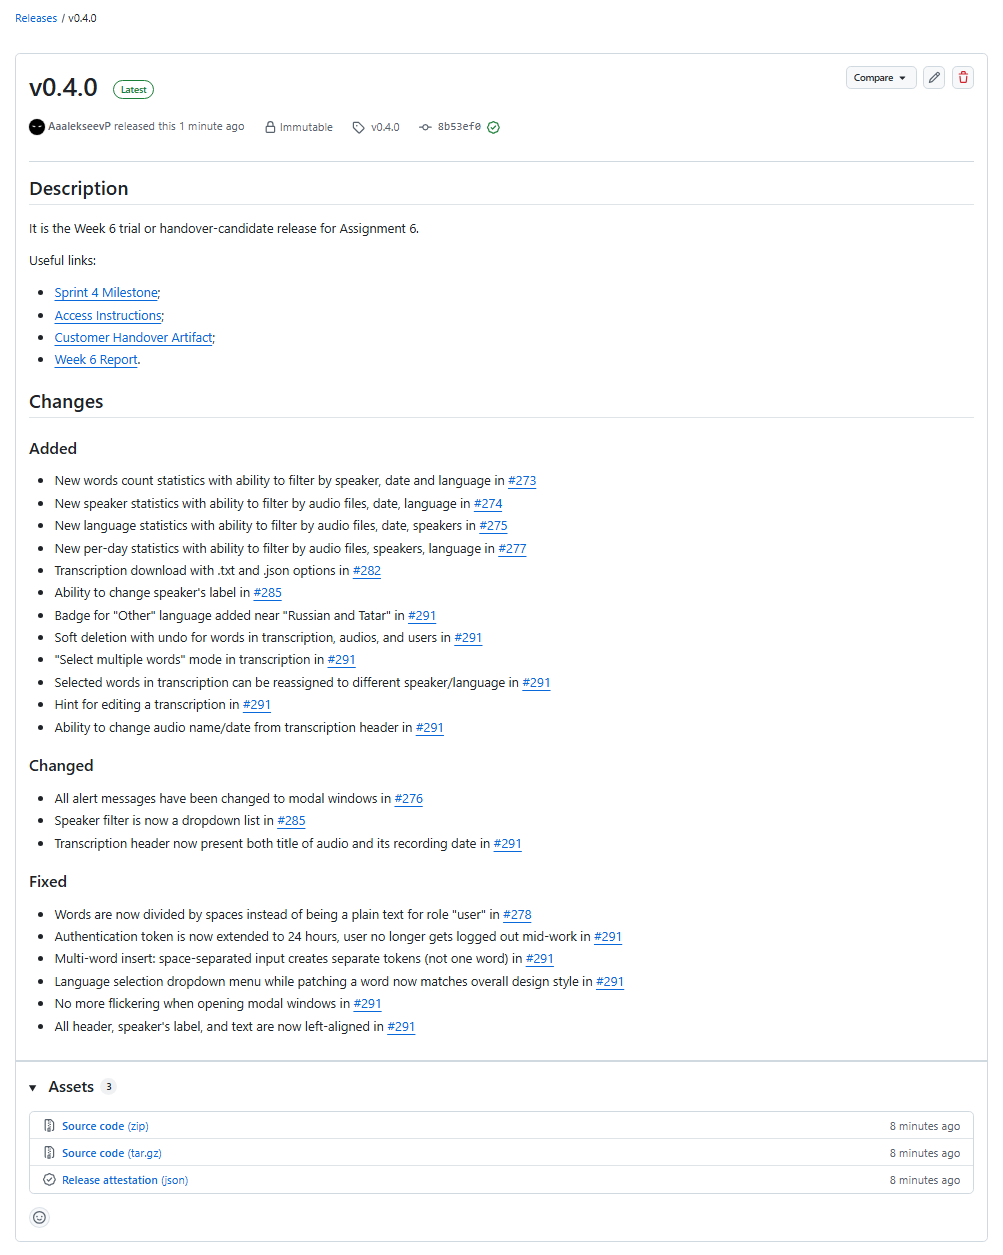
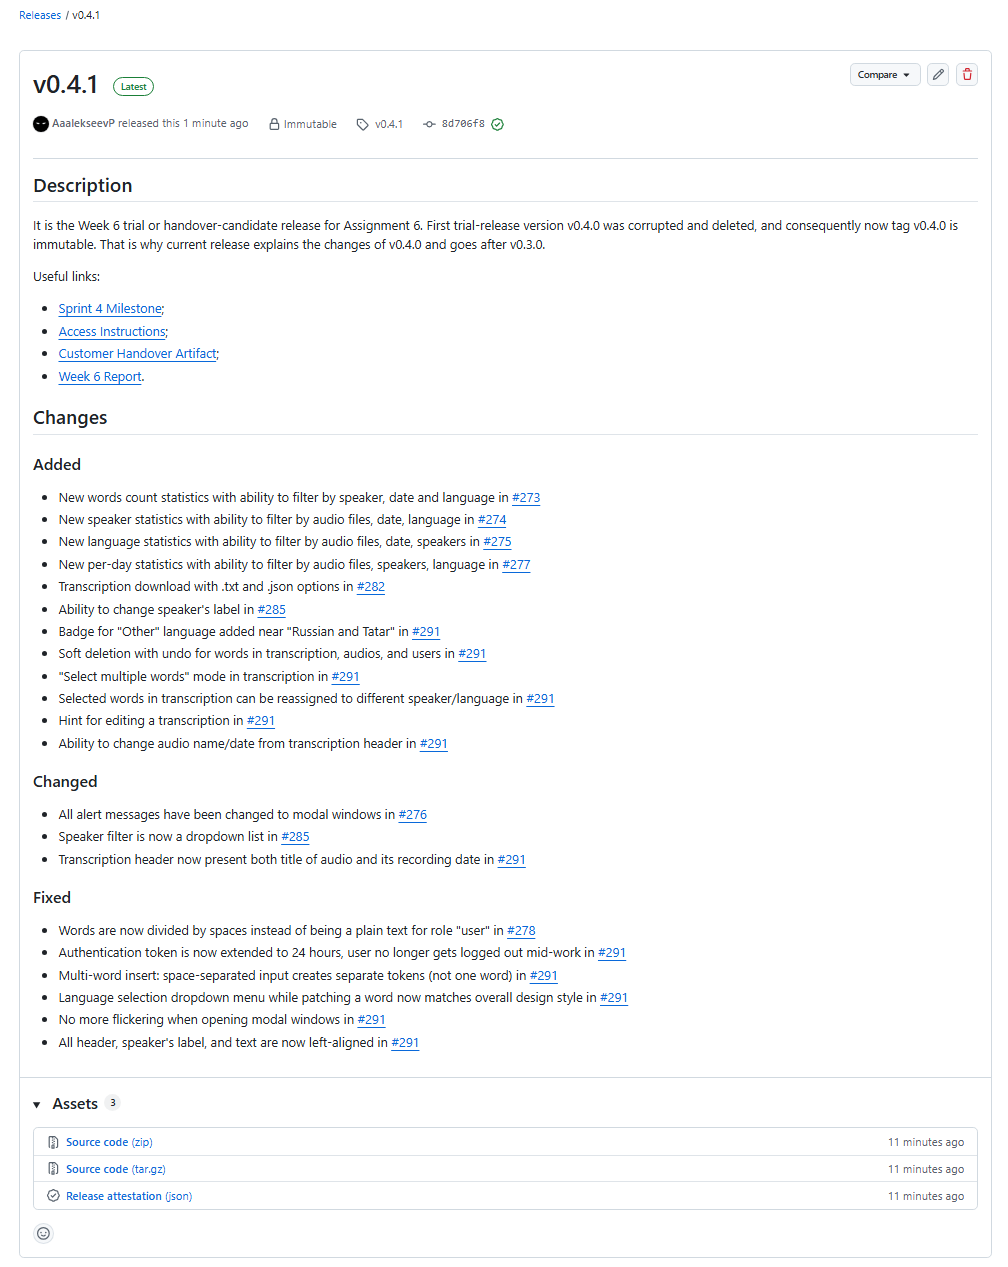
Updated release info

diff --git a/CHANGELOG.md b/CHANGELOG.md
@@ -7,7 +7,7 @@ and this project adheres to [Semantic Versioning](https://semver.org/spec/v2.0.0
 
 ## [Unreleased]
 
-## [0.4.0] - 12.07.2026
+## [0.4.1] - 12.07.2026
 
 ### Added
 - New words count statistics with ability to filter by speaker, date and language in https://github.com/SWP-Team20/Bilingual-speech-recognition/pull/273
@@ -90,8 +90,8 @@ and this project adheres to [Semantic Versioning](https://semver.org/spec/v2.0.0
 - Uploaded audio transcription feature in https://github.com/SWP-Team20/Bilingual-speech-recognition/pull/49
 - Color coding Russian and Tatar words in transcription in https://github.com/SWP-Team20/Bilingual-speech-recognition/pull/52
 
-[unreleased]: https://github.com/SWP-Team20/Bilingual-speech-recognition/compare/v0.4.0...main
-[0.4.0]: https://github.com/SWP-Team20/Bilingual-speech-recognition/releases/tag/v0.4.0
+[unreleased]: https://github.com/SWP-Team20/Bilingual-speech-recognition/compare/v0.4.1...main
+[0.4.1]: https://github.com/SWP-Team20/Bilingual-speech-recognition/releases/tag/v0.4.1
 [0.3.0]: https://github.com/SWP-Team20/Bilingual-speech-recognition/releases/tag/v0.3.0
 [0.2.0]: https://github.com/SWP-Team20/Bilingual-speech-recognition/releases/tag/v0.2.0
 [0.1.0]: https://github.com/SWP-Team20/Bilingual-speech-recognition/releases/tag/v0.1.0

diff --git a/reports/week6/README.md b/reports/week6/README.md
@@ -75,7 +75,7 @@ This update adds comprehensive statistical tracking for speakers, words, and lan
 
 ### Links
 
-- [SemVer Release](https://github.com/SWP-Team20/Bilingual-speech-recognition/releases/tag/v0.4.0)
+- [SemVer Release](https://github.com/SWP-Team20/Bilingual-speech-recognition/releases/tag/v0.4.1)
 - [Deployed Product](https://10.93.26.206:5173)
 - [Access Instructions (README.md)](/README.md)
 - [Deployment Insctructions](/docs/deployment.md)
@@ -151,9 +151,9 @@ Refine the features, hotfix the bugs, polish the product and document ASR traini
 
 | Team Member   | Issues       | PRs          | Reviews      |
 | ------------- | ------------ | ------------ | ------------ |
-| AaalekseevP | https://github.com/SWP-Team20/Bilingual-speech-recognition/issues/248 https://github.com/SWP-Team20/Bilingual-speech-recognition/issues/249 https://github.com/SWP-Team20/Bilingual-speech-recognition/issues/262 https://github.com/SWP-Team20/Bilingual-speech-recognition/issues/263 https://github.com/SWP-Team20/Bilingual-speech-recognition/issues/264 https://github.com/SWP-Team20/Bilingual-speech-recognition/issues/269 https://github.com/SWP-Team20/Bilingual-speech-recognition/issues/271 https://github.com/SWP-Team20/Bilingual-speech-recognition/issues/279 https://github.com/SWP-Team20/Bilingual-speech-recognition/issues/280 https://github.com/SWP-Team20/Bilingual-speech-recognition/issues/287 https://github.com/SWP-Team20/Bilingual-speech-recognition/issues/288 https://github.com/SWP-Team20/Bilingual-speech-recognition/issues/289 https://github.com/SWP-Team20/Bilingual-speech-recognition/issues/290 https://github.com/SWP-Team20/Bilingual-speech-recognition/issues/294 https://github.com/SWP-Team20/Bilingual-speech-recognition/issues/299 https://github.com/SWP-Team20/Bilingual-speech-recognition/issues/307 https://github.com/SWP-Team20/Bilingual-speech-recognition/issues/309 https://github.com/SWP-Team20/Bilingual-speech-recognition/issues/310 https://github.com/SWP-Team20/Bilingual-speech-recognition/issues/311 https://github.com/SWP-Team20/Bilingual-speech-recognition/issues/315 | https://github.com/SWP-Team20/Bilingual-speech-recognition/pull/265 https://github.com/SWP-Team20/Bilingual-speech-recognition/pull/276 https://github.com/SWP-Team20/Bilingual-speech-recognition/pull/278 https://github.com/SWP-Team20/Bilingual-speech-recognition/pull/281 https://github.com/SWP-Team20/Bilingual-speech-recognition/pull/282 https://github.com/SWP-Team20/Bilingual-speech-recognition/pull/286 https://github.com/SWP-Team20/Bilingual-speech-recognition/pull/291 https://github.com/SWP-Team20/Bilingual-speech-recognition/pull/295 https://github.com/SWP-Team20/Bilingual-speech-recognition/pull/300 https://github.com/SWP-Team20/Bilingual-speech-recognition/pull/306 https://github.com/SWP-Team20/Bilingual-speech-recognition/pull/308 https://github.com/SWP-Team20/Bilingual-speech-recognition/pull/312 https://github.com/SWP-Team20/Bilingual-speech-recognition/pull/313 https://github.com/SWP-Team20/Bilingual-speech-recognition/pull/314 https://github.com/SWP-Team20/Bilingual-speech-recognition/pull/316 https://github.com/SWP-Team20/Bilingual-speech-recognition/pull/317 https://github.com/SWP-Team20/Bilingual-speech-recognition/pull/320 | https://github.com/SWP-Team20/Bilingual-speech-recognition/pull/273 https://github.com/SWP-Team20/Bilingual-speech-recognition/pull/274 https://github.com/SWP-Team20/Bilingual-speech-recognition/pull/277 https://github.com/SWP-Team20/Bilingual-speech-recognition/pull/284 https://github.com/SWP-Team20/Bilingual-speech-recognition/pull/285 https://github.com/SWP-Team20/Bilingual-speech-recognition/pull/293 https://github.com/SWP-Team20/Bilingual-speech-recognition/pull/296 https://github.com/SWP-Team20/Bilingual-speech-recognition/pull/303 https://github.com/SWP-Team20/Bilingual-speech-recognition/pull/304 https://github.com/SWP-Team20/Bilingual-speech-recognition/pull/319 |
+| AaalekseevP | https://github.com/SWP-Team20/Bilingual-speech-recognition/issues/248 https://github.com/SWP-Team20/Bilingual-speech-recognition/issues/249 https://github.com/SWP-Team20/Bilingual-speech-recognition/issues/262 https://github.com/SWP-Team20/Bilingual-speech-recognition/issues/263 https://github.com/SWP-Team20/Bilingual-speech-recognition/issues/264 https://github.com/SWP-Team20/Bilingual-speech-recognition/issues/269 https://github.com/SWP-Team20/Bilingual-speech-recognition/issues/271 https://github.com/SWP-Team20/Bilingual-speech-recognition/issues/279 https://github.com/SWP-Team20/Bilingual-speech-recognition/issues/280 https://github.com/SWP-Team20/Bilingual-speech-recognition/issues/287 https://github.com/SWP-Team20/Bilingual-speech-recognition/issues/288 https://github.com/SWP-Team20/Bilingual-speech-recognition/issues/289 https://github.com/SWP-Team20/Bilingual-speech-recognition/issues/290 https://github.com/SWP-Team20/Bilingual-speech-recognition/issues/294 https://github.com/SWP-Team20/Bilingual-speech-recognition/issues/299 https://github.com/SWP-Team20/Bilingual-speech-recognition/issues/307 https://github.com/SWP-Team20/Bilingual-speech-recognition/issues/309 https://github.com/SWP-Team20/Bilingual-speech-recognition/issues/310 https://github.com/SWP-Team20/Bilingual-speech-recognition/issues/311 https://github.com/SWP-Team20/Bilingual-speech-recognition/issues/315 https://github.com/SWP-Team20/Bilingual-speech-recognition/issues/321 | https://github.com/SWP-Team20/Bilingual-speech-recognition/pull/265 https://github.com/SWP-Team20/Bilingual-speech-recognition/pull/276 https://github.com/SWP-Team20/Bilingual-speech-recognition/pull/278 https://github.com/SWP-Team20/Bilingual-speech-recognition/pull/281 https://github.com/SWP-Team20/Bilingual-speech-recognition/pull/282 https://github.com/SWP-Team20/Bilingual-speech-recognition/pull/286 https://github.com/SWP-Team20/Bilingual-speech-recognition/pull/291 https://github.com/SWP-Team20/Bilingual-speech-recognition/pull/295 https://github.com/SWP-Team20/Bilingual-speech-recognition/pull/300 https://github.com/SWP-Team20/Bilingual-speech-recognition/pull/306 https://github.com/SWP-Team20/Bilingual-speech-recognition/pull/308 https://github.com/SWP-Team20/Bilingual-speech-recognition/pull/312 https://github.com/SWP-Team20/Bilingual-speech-recognition/pull/313 https://github.com/SWP-Team20/Bilingual-speech-recognition/pull/314 https://github.com/SWP-Team20/Bilingual-speech-recognition/pull/316 https://github.com/SWP-Team20/Bilingual-speech-recognition/pull/317 https://github.com/SWP-Team20/Bilingual-speech-recognition/pull/320 https://github.com/SWP-Team20/Bilingual-speech-recognition/pull/322 | https://github.com/SWP-Team20/Bilingual-speech-recognition/pull/273 https://github.com/SWP-Team20/Bilingual-speech-recognition/pull/274 https://github.com/SWP-Team20/Bilingual-speech-recognition/pull/277 https://github.com/SWP-Team20/Bilingual-speech-recognition/pull/284 https://github.com/SWP-Team20/Bilingual-speech-recognition/pull/285 https://github.com/SWP-Team20/Bilingual-speech-recognition/pull/293 https://github.com/SWP-Team20/Bilingual-speech-recognition/pull/296 https://github.com/SWP-Team20/Bilingual-speech-recognition/pull/303 https://github.com/SWP-Team20/Bilingual-speech-recognition/pull/304 https://github.com/SWP-Team20/Bilingual-speech-recognition/pull/319 |
 | StreetSraker | https://github.com/SWP-Team20/Bilingual-speech-recognition/issues/5 https://github.com/SWP-Team20/Bilingual-speech-recognition/issues/247 https://github.com/SWP-Team20/Bilingual-speech-recognition/issues/261 https://github.com/SWP-Team20/Bilingual-speech-recognition/issues/254 https://github.com/SWP-Team20/Bilingual-speech-recognition/issues/255 https://github.com/SWP-Team20/Bilingual-speech-recognition/issues/256 https://github.com/SWP-Team20/Bilingual-speech-recognition/issues/258 https://github.com/SWP-Team20/Bilingual-speech-recognition/issues/283 https://github.com/SWP-Team20/Bilingual-speech-recognition/issues/292 https://github.com/SWP-Team20/Bilingual-speech-recognition/issues/318 | https://github.com/SWP-Team20/Bilingual-speech-recognition/pull/273 https://github.com/SWP-Team20/Bilingual-speech-recognition/pull/274 https://github.com/SWP-Team20/Bilingual-speech-recognition/pull/275 https://github.com/SWP-Team20/Bilingual-speech-recognition/pull/277 https://github.com/SWP-Team20/Bilingual-speech-recognition/pull/284 https://github.com/SWP-Team20/Bilingual-speech-recognition/pull/285 https://github.com/SWP-Team20/Bilingual-speech-recognition/pull/293 https://github.com/SWP-Team20/Bilingual-speech-recognition/pull/319 | https://github.com/SWP-Team20/Bilingual-speech-recognition/pull/265 https://github.com/SWP-Team20/Bilingual-speech-recognition/pull/278 https://github.com/SWP-Team20/Bilingual-speech-recognition/pull/281 https://github.com/SWP-Team20/Bilingual-speech-recognition/pull/282 https://github.com/SWP-Team20/Bilingual-speech-recognition/pull/286 https://github.com/SWP-Team20/Bilingual-speech-recognition/pull/291 https://github.com/SWP-Team20/Bilingual-speech-recognition/pull/295 https://github.com/SWP-Team20/Bilingual-speech-recognition/pull/301 https://github.com/SWP-Team20/Bilingual-speech-recognition/pull/308 https://github.com/SWP-Team20/Bilingual-speech-recognition/pull/312 https://github.com/SWP-Team20/Bilingual-speech-recognition/pull/313 https://github.com/SWP-Team20/Bilingual-speech-recognition/pull/320 |
-| ProPupok | https://github.com/SWP-Team20/Bilingual-speech-recognition/issues/266 https://github.com/SWP-Team20/Bilingual-speech-recognition/issues/267 https://github.com/SWP-Team20/Bilingual-speech-recognition/issues/268 https://github.com/SWP-Team20/Bilingual-speech-recognition/issues/270 | https://github.com/SWP-Team20/Bilingual-speech-recognition/pull/297 https://github.com/SWP-Team20/Bilingual-speech-recognition/pull/298 https://github.com/SWP-Team20/Bilingual-speech-recognition/pull/301 https://github.com/SWP-Team20/Bilingual-speech-recognition/pull/303 https://github.com/SWP-Team20/Bilingual-speech-recognition/pull/304 | https://github.com/SWP-Team20/Bilingual-speech-recognition/pull/275 https://github.com/SWP-Team20/Bilingual-speech-recognition/pull/276 https://github.com/SWP-Team20/Bilingual-speech-recognition/pull/300 https://github.com/SWP-Team20/Bilingual-speech-recognition/pull/314 https://github.com/SWP-Team20/Bilingual-speech-recognition/pull/316 |
+| ProPupok | https://github.com/SWP-Team20/Bilingual-speech-recognition/issues/266 https://github.com/SWP-Team20/Bilingual-speech-recognition/issues/267 https://github.com/SWP-Team20/Bilingual-speech-recognition/issues/268 https://github.com/SWP-Team20/Bilingual-speech-recognition/issues/270 | https://github.com/SWP-Team20/Bilingual-speech-recognition/pull/297 https://github.com/SWP-Team20/Bilingual-speech-recognition/pull/298 https://github.com/SWP-Team20/Bilingual-speech-recognition/pull/301 https://github.com/SWP-Team20/Bilingual-speech-recognition/pull/303 https://github.com/SWP-Team20/Bilingual-speech-recognition/pull/304 | https://github.com/SWP-Team20/Bilingual-speech-recognition/pull/275 https://github.com/SWP-Team20/Bilingual-speech-recognition/pull/276 https://github.com/SWP-Team20/Bilingual-speech-recognition/pull/300 https://github.com/SWP-Team20/Bilingual-speech-recognition/pull/314 https://github.com/SWP-Team20/Bilingual-speech-recognition/pull/316 https://github.com/SWP-Team20/Bilingual-speech-recognition/pull/322 |
 | lohmo111* | https://github.com/SWP-Team20/Bilingual-speech-recognition/issues/309 | — | — |
 | anakin-shitcoder | https://github.com/SWP-Team20/Bilingual-speech-recognition/issues/272 | https://github.com/SWP-Team20/Bilingual-speech-recognition/pull/296 | — |
 